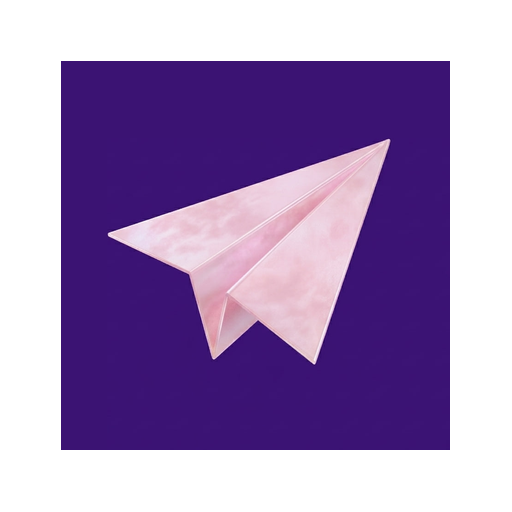
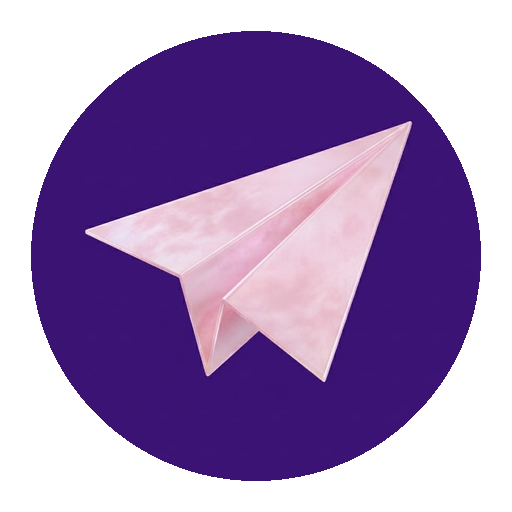
fix startup settings assert and astrogram branding

diff --git a/Telegram/SourceFiles/core/core_settings.cpp b/Telegram/SourceFiles/core/core_settings.cpp
@@ -242,7 +242,7 @@ QByteArray Settings::serialize() const {
 		+ Serialize::bytearraySize(_tonsiteStorageToken)
 		+ sizeof(qint32) * 8
 		+ sizeof(ushort)
-		+ sizeof(qint32) * 3; // _notificationsDisplayChecksum + local overrides
+		+ sizeof(qint32) * 15; // _notificationsDisplayChecksum + 14 Astrogram overrides
 
 	auto result = QByteArray();
 	result.reserve(size);
